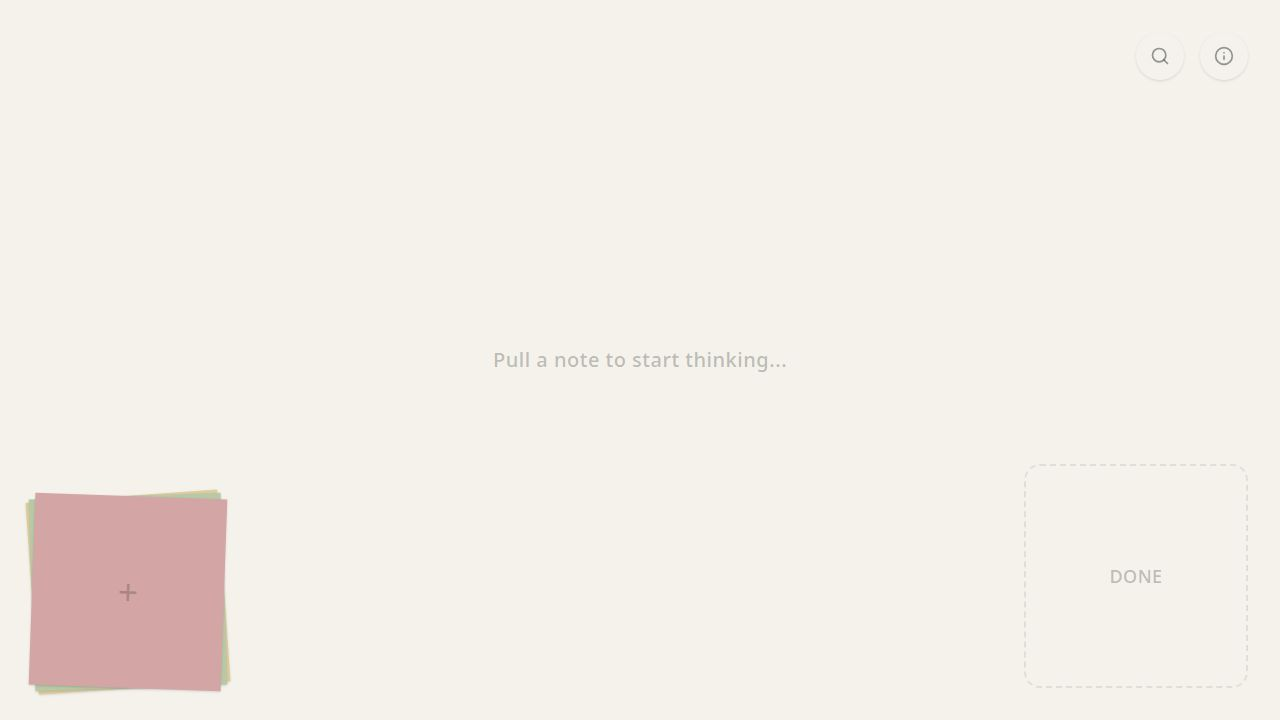
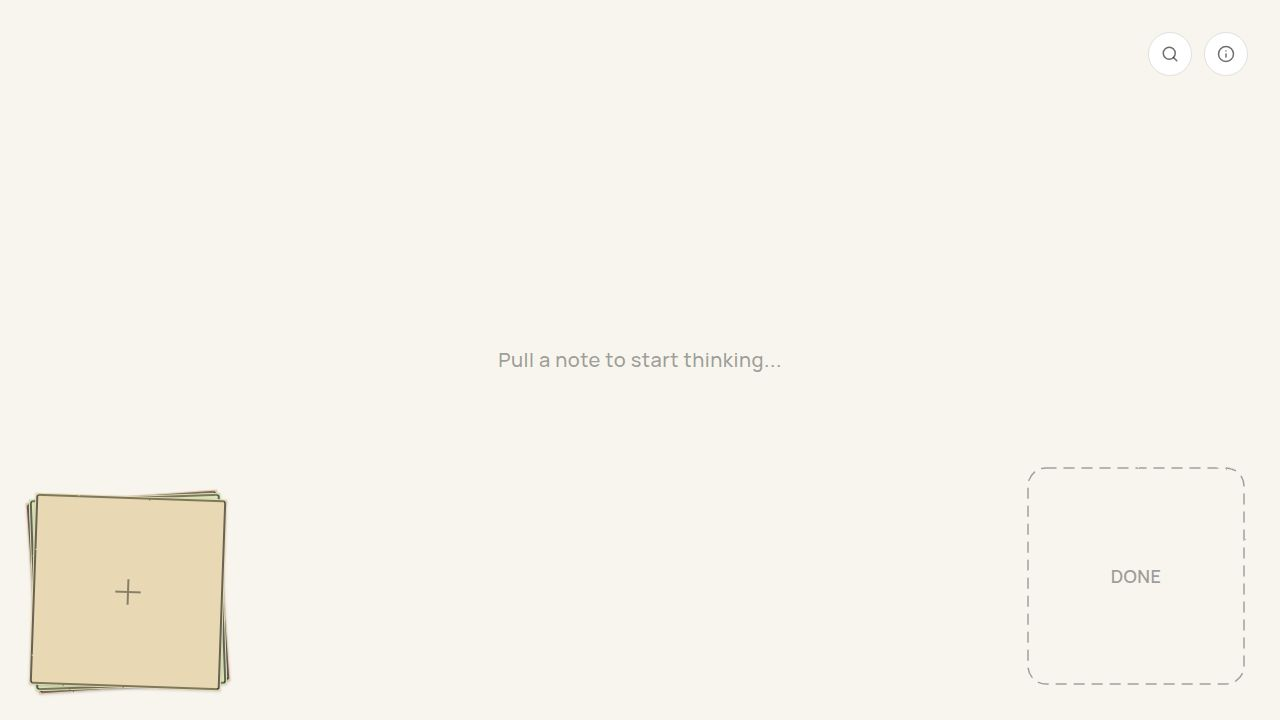
Sketch the pad and editor modal so the whole UI feels hand-drawn
Task #3: extend the pencil-sketch treatment from Task #2 (post-its and
the retire-zone outline) to the two next-most-prominent surfaces — the
bottom-left "new note" pad and the full-screen editor modal.

Changes (artifacts/sticky-wall/src/App.tsx):
- Pad: each of the three stacked sheets now renders a static SketchBorder
  (INK, strokeWidth 1.2, radius 2, inset 2) so the pad reads as a stack
  of hand-cut paper. The borders sit inside each rotated sheet div so
  they tilt with the paper.
- Pad "+" glyph: replaced the crisp Unicode "+" with a new SketchPlus
  component — two SVG strokes routed through the shared
  sticky-pencil-roughen filter — so the call-to-action matches the new
  aesthetic. Hover slightly increases its opacity, mirroring the
  previous behavior.
- Editor modal: dropped `staticOnly` on the modal's SketchBorder, bumped
  strokeWidth from 1.6 to 2 and durationMs to 620, and keyed the
  animation on the post-it id (`editor-${id}`) so the pencil stroke
  draws itself in each time the modal opens — slightly stronger and
  more deliberate than the wall post-its since this is the focal
  surface.

Notes:
- prefers-reduced-motion is still honored: SketchBorder internally
  short-circuits the dash-reveal when the user prefers reduced motion,
  so the new modal animation is automatically skipped. The Pad uses
  staticOnly anyway, so it has no animation to suppress.
- No new dependencies; reused the existing SketchBorder/SketchDefs
[…]

diff --git a/artifacts/sticky-wall/src/App.tsx b/artifacts/sticky-wall/src/App.tsx
@@ -293,6 +293,36 @@ function DoneZone({
   );
 }
 
+function SketchPlus({ size = 36, color = INK, opacity = 0.35 }: {
+  size?: number;
+  color?: string;
+  opacity?: number;
+}) {
+  // A small hand-drawn-feeling "+" rendered as two SVG strokes that pass
+  // through the same roughen filter as SketchBorder, so it visually
+  // matches the rest of the sketched UI rather than a crisp glyph.
+  return (
+    <svg
+      width={size}
+      height={size}
+      viewBox="0 0 36 36"
+      aria-hidden="true"
+      style={{ display: "block", overflow: "visible", opacity }}
+    >
+      <g
+        fill="none"
+        stroke={color}
+        strokeWidth={2}
+        strokeLinecap="round"
+        style={{ filter: `url(#${"sticky-pencil-roughen"})` }}
+      >
+        <line x1="18" y1="6" x2="18" y2="30" />
+        <line x1="6" y1="18" x2="30" y2="18" />
+      </g>
+    </svg>
+  );
+}
+
 function Pad({ onClick }: { onClick: () => void }) {
   const { attributes, listeners, setNodeRef, transform, isDragging } =
     useDraggable({
@@ -319,12 +349,17 @@ function Pad({ onClick }: { onClick: () => void }) {
       {...attributes}
       aria-label="New sticky note pad. Click or drag to create a new note. Press N for shortcut."
     >
-      <div className="absolute inset-0 bg-[#E9C9B7] rotate-[-4deg] shadow-sm" />
-      <div className="absolute inset-0 bg-[#D9E2B8] rotate-[-2deg] shadow-sm" />
+      <div className="absolute inset-0 bg-[#E9C9B7] rotate-[-4deg] shadow-sm">
+        <SketchBorder color={INK} strokeWidth={1.2} radius={2} inset={2} staticOnly />
+      </div>
+      <div className="absolute inset-0 bg-[#D9E2B8] rotate-[-2deg] shadow-sm">
+        <SketchBorder color={INK} strokeWidth={1.2} radius={2} inset={2} staticOnly />
+      </div>
       <div className="absolute inset-0 bg-[#E8D9B4] rotate-[2deg] shadow-sm flex items-center justify-center group">
-        <span className="text-foreground/25 text-4xl group-hover:text-foreground/40 transition-colors">
-          +
-        </span>
+        <SketchBorder color={INK} strokeWidth={1.2} radius={2} inset={2} staticOnly />
+        <div className="relative z-10 transition-opacity duration-200 group-hover:opacity-100 opacity-80">
+          <SketchPlus size={36} color={INK} opacity={0.55} />
+        </div>
       </div>
     </div>
   );
@@ -824,12 +859,17 @@ function StickyWall() {
               style={{ backgroundColor: editingPostIt.color }}
               onClick={(e) => e.stopPropagation()}
             >
+              {/* Slightly stronger draw-in than the wall post-its: this is
+                  the focal surface, so the pencil reveal feels deliberate
+                  as the modal opens. Keyed on the post-it id so reopening
+                  a different note re-plays the stroke. */}
               <SketchBorder
                 color={INK}
-                strokeWidth={1.6}
+                strokeWidth={2}
                 radius={2}
                 inset={3}
-                staticOnly
+                durationMs={620}
+                animationKey={`editor-${editingPostIt.id}`}
               />
               <textarea
                 autoFocus
